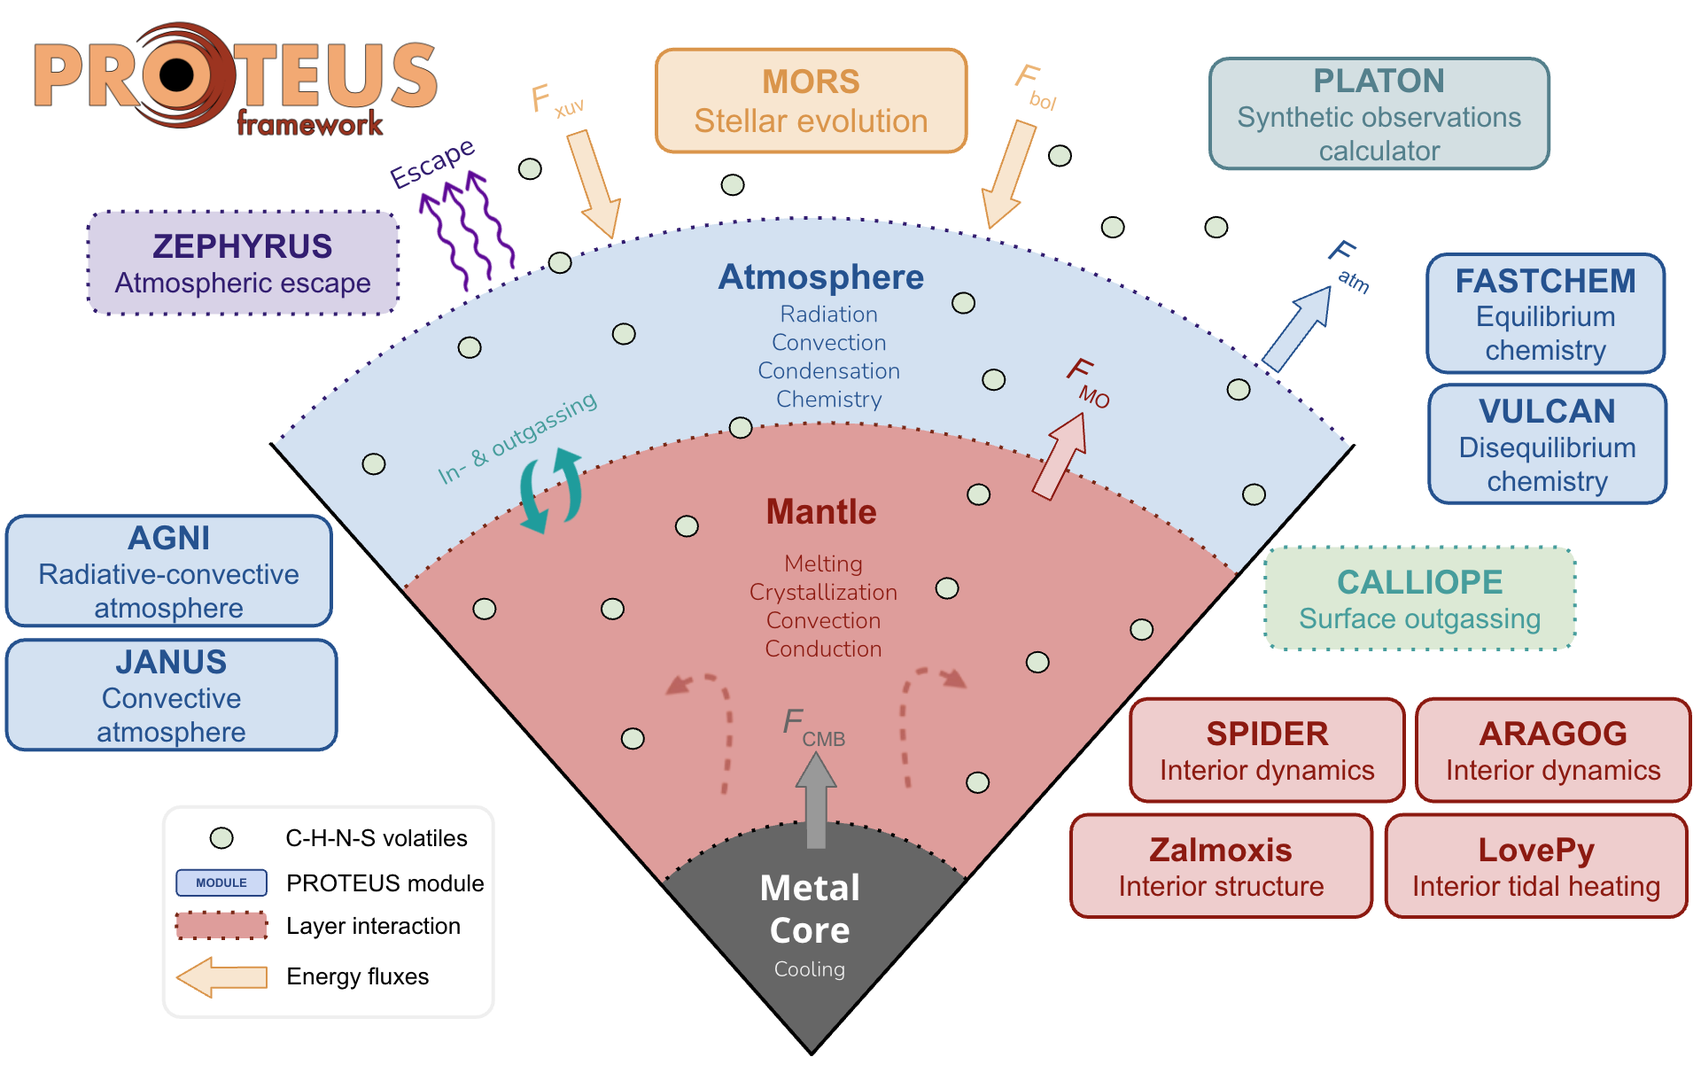
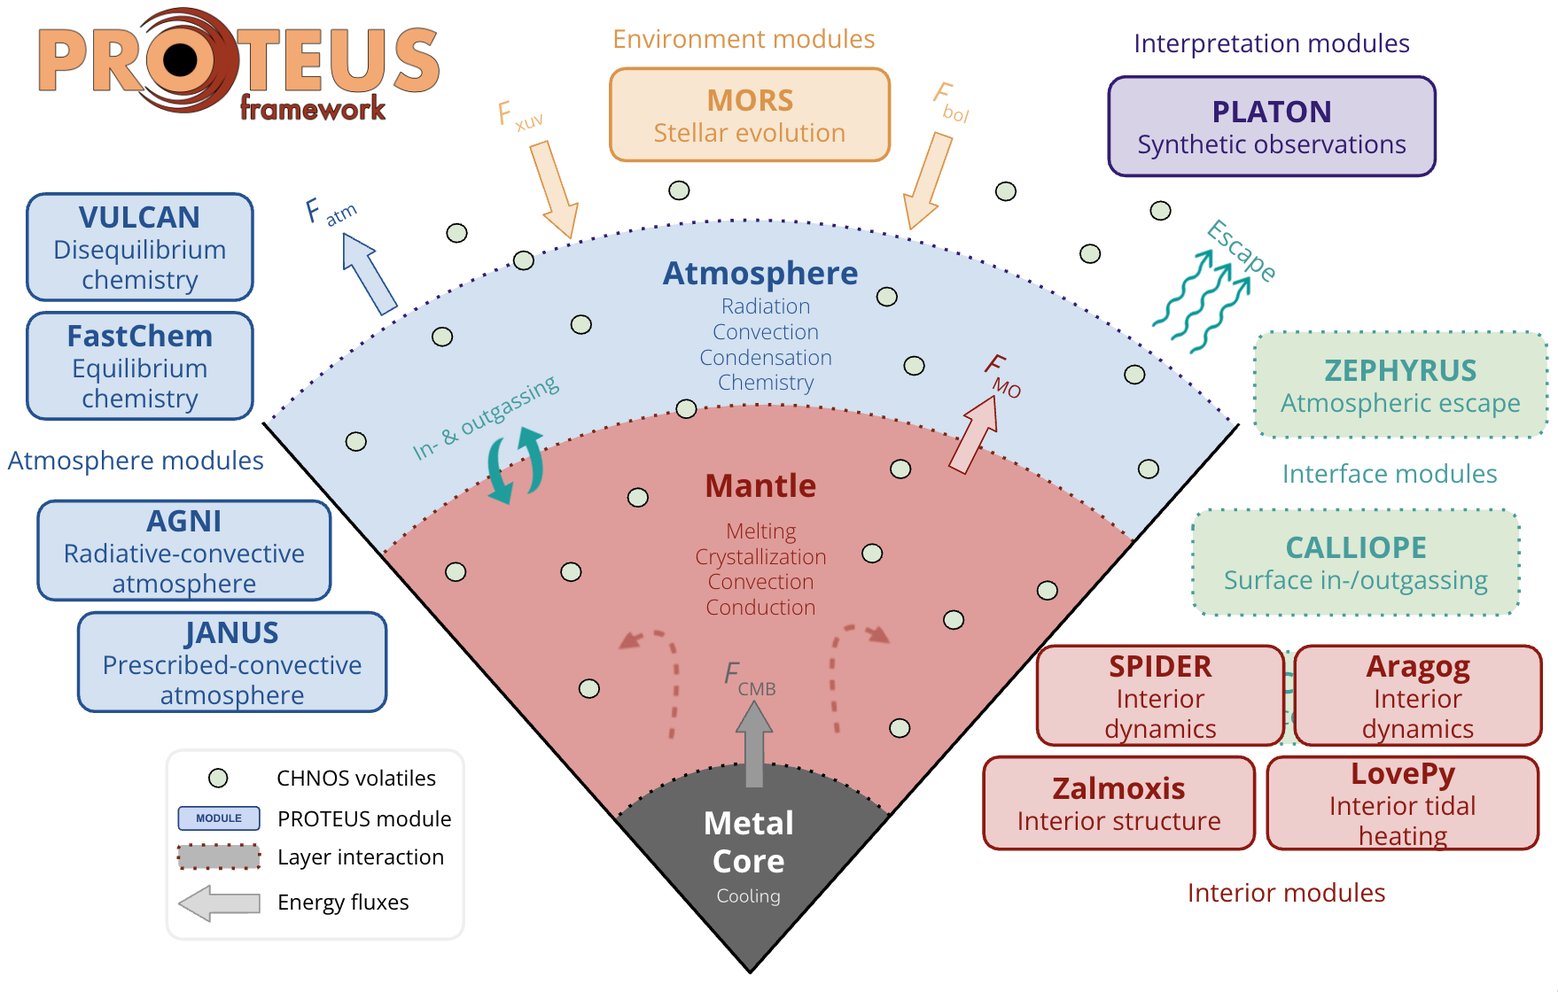
suggestions by harrison, changes to figure

diff --git a/docs/paper/paper.md b/docs/paper/paper.md
@@ -75,13 +75,13 @@ bibliography: paper.bib
 
 # Summary
 
-[PROTEUS](https://github.com/FormingWorlds/PROTEUS) is an adaptive and modular numerical framework designed to tackle the interdisciplinary challenge of understanding the coupled evolution of the atmospheres and interiors of rocky planets and exoplanets over geologic timescales. It iteratively couples the numerical solution of interoperable physical and chemical modules, each of which are designed to describe a specific component of the planet and its environment, for example atmospheric radiative transfer, stellar evolution, volatile in- and outgassing, or mantle convection. Through this method PROTEUS resolves evolutionary hysteresis processes on a global, planetary scale that are not accessible through steady-state approaches. Its modularity allows robust physical and numerical tests against known analytical solutions and empirical evidence on the level of both individual processes and the interconnected planet system. The current primary use case of PROTEUS is the simulation of the coupled geophysical and climatic evolution of individual or ensembles of rocky (exo-)planets from their primordial magma ocean phase to either global energy balance, mantle solidification, or complete atmospheric escape. Through its modular implementation, PROTEUS offers multiple avenues to extend its functionality and use-cases in the future, for example toward more volatile-rich planets, solid-state geodynamics, prebiotic and biotic chemistry, and statistical inference methods.
+[PROTEUS](https://github.com/FormingWorlds/PROTEUS) is an adaptive and modular numerical framework designed to tackle the interdisciplinary challenge of understanding the coupled evolution of the atmospheres and interiors of rocky planets and exoplanets over geologic timescales. It iteratively couples the numerical solutions of interoperable physical and chemical modules, each of which are designed to describe a specific component of the planet and its environment, for example atmospheric radiative transfer, stellar evolution, volatile in- and outgassing, or mantle convection. Through this method PROTEUS resolves evolutionary hysteresis processes on a global, planetary scale that are not accessible through steady-state approaches. Its modularity allows robust physical and numerical tests against known semi-analytic solutions and empirical evidence on the level of both individual processes and the interconnected planet system. The current primary use case of PROTEUS is the simulation of the coupled geophysical and climatic evolution of individual or ensembles of rocky (exo-)planets from their primordial magma ocean phase to either global energy balance, mantle solidification, or complete atmospheric escape. Simulation results can be aimed at advancing our theoretical understanding of planetary evolution or for be used for comparison with current and future astronomical observations. Through its modular implementation, PROTEUS offers multiple avenues to extend its functionality and use-cases in the future, for example toward more volatile-rich planets, solid-state geodynamics, prebiotic and biotic chemistry, and statistical inference methods.
 
 # Background
 
-Advances in astronomical instrumentation, such as the launch of the James Webb Space Telescope (JWST), now enable the spectral characterization of low-mass extrasolar planets, in particular so-called super-Earths and sub-Neptunes [@kempton24], which are absent from the Solar System. Many of these exoplanets orbit very close to their star under high irradiation and on eccentric orbits [@zhu21]. These conditions create thermodynamic environments that are potentially similar to the climatic and geodynamic regime of the primitive Earth right after its formation, enabling direct observational access to highly energetic phases of planetary evolution, for instance magma ocean stages and runaway greenhouse states. These extreme geodynamic and climatic regimes governed the early, formative phases of the terrestrial planets, but are inaccessible at present day in the Solar System [@lichtenberg23].
+Advances in astronomical instrumentation, such as the launch of the James Webb Space Telescope (JWST), now enable the spectral characterization of low-mass extrasolar planets, in particular so-called super-Earths and sub-Neptunes [@kempton24], which have no Solar System analogues. Many of these exoplanets orbit very close to their star under high irradiation and on eccentric orbits [@zhu21]. These conditions create thermodynamic environments that are potentially similar to the climatic and geodynamic regime of the primitive Earth right after its formation, enabling direct observational access to highly energetic phases of planetary evolution, for instance magma ocean stages and runaway greenhouse states. These extreme geodynamic and climatic regimes governed the early, formative phases of the terrestrial planets, but are inaccessible at present day in the Solar System [@lichtenberg23].
 
-Characterizing the thermodynamic and climatic properties of these exoplanets in fully or partially molten regimes will thus yield critical insights to better understand the planetary conditions that governed the formation of the earliest atmospheres of the terrestrial planets and built the background environment of the origin of life as we know it [@lichtenberg25]. Resolving the physical origin of the diversity in the observed exoplanet population is key to building a background understanding of the abiotic landscape of terrestrial worlds. Only through such enhanced understanding of the planetary context can we built the quantitative understanding through which exoplanet astronomy will enable the identification of life as we know it on other worlds.
+Characterizing the thermodynamic and climatic properties of these exoplanets in fully or partially molten regimes will thus yield critical insights to better understand the planetary conditions that governed the formation of the earliest atmospheres of the terrestrial planets and built the background environment of the origin of life as we know it [@lichtenberg25]. Resolving the physical origin of the diversity in the observed exoplanet population is key to building a background understanding of the abiotic landscape of terrestrial worlds. Key insights require contextual insight into both individual planets and population-level trends, such as the radius valley or prevalence of secondary atmospheres on low-mass exoplanets. Only through such enhanced understanding of the planetary context can we built the quantitative understanding through which exoplanet astronomy will enable the identification of life as we know it on other worlds.
 
 # Statement of need
 
@@ -89,7 +89,7 @@ The atmospheric, surficial, and geologic conditions during magma ocean epochs ar
 
 This emergent property of coupled interior-atmosphere systems is illustrated by the discussion surrounding the 'runaway greenhouse' climate state for Earth and Venus, and for extrasolar planets. If low-mass planets are modelled in a steady-state with a pre-exisiting water ocean and freely chosen atmospheric compositions [@yang13; @way16; @selsis23; @madhusudhan23], it is found that such planets can retain their water inventory and remain 'habitable' on geologic timescales. However, if modelled as starting in a hot magma ocean state, as predicted by planetary formation scenarios and supported by empirical evidence from the Solar System, these solutions are not recovered [@hamano13; @schaefer16; @kite20a; @kite20b; @lichtenberg21a; @dorn21; @shorttle24; @nicholls25c; @boer25]; instead long-lived magma oceans are found to be defining features of planetary evolution, in particular under the extreme stellar irradiation of the currently known exoplanet population [@lichtenberg25].
 
-One key reason for this model divergence is the emerging feedback loop between molten mantle and atmosphere: atmospheric volatiles, including H$_2$O and N and S species, are highly soluble in magmatic fluids [@suer23; @sossi23; @schaefer16], hence the rocky, molten mantle acts as a significant sink of atmospheric volatiles, which selectively draws volatiles out of the atmosphere into the mantle [@dorn21; @shorttle24; @nicholls25c]. This changes the energy transfer through the atmosphere by affecting its pressure, opacity, and reflection properties, in turn changing the heat loss or gain of the planet through secular cooling and stellar irradiation. Time-sensitive effects, such as continuing accretion [@itcovitz22; @lichtenberg22; @wogan24b], internal redox processes [@wordsworth18; @kite20b; @lichtenberg21b @schaefer24], photoevaporation [@rogers21; @cherubim25] induced by the host star, or mantle crystallisation (Maurice, Lichtenberg), will affect the global planetary equilibrium over time.
+One key reason for this model divergence is the emerging feedback loop between molten mantle and atmosphere: atmospheric volatiles, including H$_2$O and N and S species, are highly soluble in magmatic fluids [@suer23; @sossi23; @schaefer16], hence the rocky, molten mantle acts as a significant sink of atmospheric volatiles, which selectively draws volatiles out of the atmosphere into the mantle [@dorn21; @shorttle24; @nicholls25c]. This changes the energy transfer through the atmosphere by affecting its pressure, opacity, and scattering properties, in turn changing the heat loss or gain of the planet through secular cooling and stellar irradiation. Time-sensitive effects, such as continuing accretion [@itcovitz22; @lichtenberg22; @wogan24b], internal redox processes [@wordsworth18; @kite20b; @lichtenberg21b @schaefer24], photoevaporation [@rogers21; @cherubim25] induced by the host star, or mantle crystallisation [@schaefer_magma_2018], will affect the global planetary equilibrium over time.
 
 Planets with similar atmospheric properties may thus harbour order of magnitude different bulk volatile fractions if their interior (core and mantle) phase state is different. This presents a critical degeneracy for astronomical observations aiming to infer compositional and thermodynamic properties of exoplanets from telescopic data. On the other hand, evolutionary hysteresis processes may contribute to resolving observational degeneracies: the magma solubilities of C, N and S species are highly sensitive to the compositional properties of the planetary mantle [@suer23; @lichtenberg21a; @shorttle24; @nicholls25a], hence planets with different geochemistries may be distinguished by matching astronomical observations with time-resolved solutions that connect geochemical with atmospheric considerations over geological timescales. Providing these geophysical and climatic predictions and enable quantative comparison with empirical data from exoplanet astronomy is the primary purpose of the PROTEUS framework in its present form.
 
@@ -101,7 +101,7 @@ The PROTEUS framework attempts to tackle these challenges by modularising its so
 
  - Modules can be updated and maintained independently. Each module is self-sufficient and can be executed standalone, which enhances developer experience and usability.
  - Modules can be combined in different ways to create different approaches, which enables the framework to be adapted to a wide range of research questions.
- - Modules can be exchanged through other modules to test the sensitivity of different approaches to the same problem, which enables a more robust understanding of the underlying physics and chemistry.
+ - Modules can be exchanged with other modules to test the sensitivity of different approaches to the same problem, which enables a more robust understanding of the underlying physics and chemistry.
 
 PROTEUS is thus in principle interoperable with a variety of external computer codes that fit into the framework designation. In some instances, this enables integration and extension of pre-existing codes, preventing researchers from continuously 'reinventing the wheel' of their scientific domain.
 
@@ -109,44 +109,47 @@ PROTEUS is thus in principle interoperable with a variety of external computer c
 
 \autoref{fig:schematic} shows the current state of the PROTEUS framework at the time of submission, including its ecosystem of modules, as previously introduced in @lichtenberg21a; @nicholls24; @nicholls25a; @nicholls25c. Several of the currently existing modules (in addition to the PROTEUS framework itself) have been written from scratch for their primary use as module within PROTEUS. Other modules are specialised codes, which were originally developed stand-alone, and have been adapted and extended to work with the PROTEUS framework.
 
-Modules are grouped into four main categories: (i) interior, (ii) atmosphere, (iii) environment, (iv) interpretation.
+Modules are grouped into four main categories: (i) interior, (ii) atmosphere, (iii) interface, (iv) environment, and (v) interpretation.
 
-Interior modules (i) compute the thermal and chemical evolution of the planetary mantle and core, such as mantle energy transport process, melting and crystallization, and in- and outgassing of volatiles. These include:
+Interior modules (i) compute the thermal and chemical evolution of the planetary mantle and core, such as mantle energy transport process, melting and crystallization (red boxes in \autoref{fig:schematic}). These include:
 
   - Aragog and SPIDER [@bower18; @sastre25], which describe the interior heat transport of partially molten planets using an entropy and a temperature formalism, respectively.
-  - CALLIOPE [@bower22; @shorttle24; @nicholls25a], which describes the escape of the atmosphere to space.
-  - LovePy [@hay19; @nicholls25c], which describes solid-phase tidal heating in the planetary mantle.
-  - Zalmoxis [@pascal26], which describes the interior (core and mantle) structure and gravity profile.
+  - LovePy [@hay19; @nicholls25c], which simulate mixed-phase tidal heating in the planetary mantle.
+  - Zalmoxis [@pascal26], which calculates the interior (core and mantle) structure and gravity profile.
 
-Atmosphere modules (ii) compute the energy balance of the planetary atmosphere, including radiative transfer, atmospheric chemistry, and escape processes. These include:
+Atmosphere modules (ii) compute the energy balance and composition of the planetary atmosphere, including radiative transfer, and atmospheric chemistry processes  (blue boxes in \autoref{fig:schematic}). These include:
 
   - AGNI [@nicholls25a; @nicholls25b], which describes the atmosphere energy balance using a radiative-convective model and surface reflection properties from laboratory data [@hammond25].
-  - JANUS [@graham21; @graham22], which describes the atmosphere energy balance using a multicomponent non‐dilute pseudoadiabat.
-  - ZEPHYRUS [@postolec25], which describes the escape of the atmosphere to space.
-  - FASTCHEM [@kitzmann24], which describes equilibrium atmospheric chemistry.
-  - VULCAN [@tsai17; @tsai21], which describes disequilibrium atmospheric chemistry.
-  - SOCRATES [@manners24-tech], which describes radiative fluxes from atmospheric temperature and composition.
+  - JANUS [@graham21; @graham22], which treats the atmosphere energy balance using a multicomponent non‐dilute pseudoadiabat.
+  - FASTCHEM [@kitzmann24], which models equilibrium atmospheric chemistry.
+  - VULCAN [@tsai17; @tsai21], which simulates disequilibrium atmospheric chemistry.
+  - SOCRATES [@manners24-tech], which calculates radiative fluxes from atmospheric temperature and composition.
 
-Environment modules (iii) compute the evolution of the host star, including its luminosity and spectral energy distribution:
+Interface modules (iii) compute the energy balance and composition of the planetary atmosphere, including radiative transfer, and atmospheric chemistry processes (green boxes in \autoref{fig:schematic}). These include:
 
- - MORS [@johstone21], which describes the evolution of rotation and high energy emission of stars.
+  - CALLIOPE [@bower22; @shorttle24; @nicholls25a], which simulates the redox-, temperature-, and pressure-controlled in- and outgassing of C-H-N-O-S volatile elements.
+  - ZEPHYRUS [@postolec25], which calculates the escape of the atmosphere to space.
 
-Interpretation modules (iv) compute observational properties of the planet, such as emission and transmission spectra, planet-to-star contrast ratio, and bulk density:
+Environment modules (iv) compute the evolution of the host star, including its luminosity and spectral energy distribution (yellow boxe in \autoref{fig:schematic}):
 
- - PLATON [@zhang19; @zhang20], which describes synthetic telescopic observations of exoplanets.
+ - MORS [@johstone21], which models the evolution of rotation and high energy emission of stars.
 
-All module repositories are linked to the [PROTEUS framework repository](https://github.com/FormingWorlds/PROTEUS), which provides a single entry point for users to access the entire PROTEUS ecosystem.
+Interpretation modules (v) compute observational properties of the planet, such as emission and transmission spectra, planet-to-star contrast ratio, and bulk density (purple boxes in \autoref{fig:schematic}):
+
+ - PLATON [@zhang19; @zhang20], which simulates synthetic telescopic observations of exoplanets.
+
+While module categories (iv) and (v) so far only contain one module, we anticipate extending these categories in the future with capabilities related to orbital dynamics, accretion, and telescope simulators.All module repositories are linked to the [PROTEUS framework repository](https://github.com/FormingWorlds/PROTEUS), which provides a single entry point for users to access the entire PROTEUS ecosystem.
 
 # Discussion of similar codes
 
-With the advent of increasing precision in exoplanet characterization, and the focus on smaller planets that approach Earth-like radii and densities, the development of coupled atmosphere-interior codes has recently increased the number of research groups working in this direction. Hence, our discussion here focusses specifically on the key traits of (a) time evolution of the planet, (b) coupling between the interior (i.e., a change in one system must dynamically affect other system properties), and (c) the planetary mantle and atmosphere must be described in some fashion that enables quantification of mantle crystallization timescales and changes in atmospheric pressure and/or composition. With this definition, a growing number of codes, mostly proprietary, have been developed over the past few years [@schaefer16; @hamano13; @bower22; @lichtenberg21a; @krissansentotton21; @tang24; @cherubim25; @kite20a; @maurice24; @lebrun13; @salvador17; @carone25; @farhat25; @sahu25]. The majority of these codes built on the principles developed by @elkinstanton08, but each have their own unique implementations and methodologies.
+With the advent of increasing observational precision in exoplanet characterization, and the focus on smaller planets that approach Earth-like radii and densities, the development of coupled atmosphere-interior codes has recently increased the number of research groups working in this direction. Hence, our discussion here focusses specifically on the key traits of (a) time evolution of the planet, (b) coupling between the interior and atmosphere (i.e., a change in one system must dynamically affect other system properties), and (c) the planetary mantle and atmosphere must be described in some fashion that enables quantification of mantle crystallization timescales and changes in atmospheric pressure and/or composition. With this definition, a growing number of codes, mostly proprietary, have been developed over the past few years [@schaefer16; @hamano13; @bower22; @lichtenberg21a; @krissansentotton21; @tang24; @cherubim25; @barnes20; @kite20a; @maurice24; @lebrun13; @salvador17; @carone25; @farhat25; @sahu25]. The majority of these codes built on the principles developed by @elkinstanton08, but each have their own unique implementations and methodologies.
 
 It is critically important for the exploration of the exoplanet census and refined understanding of the deep history of the terrestrial planets that a variety of independent models are developed, optimally in an open source fashion, so that individual approaches can be compared against one another, and the community can learn from each other and thus produce better and more robust science. A detailed comparison with these codes would go beyond the scope of this article. Hence, we here limit our discussion to the traits that we believe are the unique capabilities and implementation aspects of PROTEUS. These are:
 
   - Its modularised approach, with the advantages described above.
-  - The ability to spatially resolve the planet (so far in 1-D) from the core-mantle boundary to the top of the atmosphere. Critically, this enables the quantification of thermal evolution scenarios that crystallize inhomogeneously, and not solely from the bottom-up, as is a common assumption in most other codes that make use of boundary layer theory for their interior description.
-  - The wide variety of geochemistries that can be modelled, which are expressed through the redox state at the mantle-atmosphere interface and result in order-of-magnitude varying atmospheric compositions, which are chemically and energetically self-consistently resolved in the atmospheric modules.
-  - The dynamic resolution of interior and atmospheric energy transfers regimes: radiative and convective layers in the atmosphere; two-phase energy and compositional transfer in conductive and (turbulent) convective regimes of the interior are resolved.
+  - The ability to spatially model the planet (so far in 1-D) from the core-mantle boundary to the top of the atmosphere. Critically, this enables the quantification of thermal evolution scenarios that crystallize inhomogeneously, and not solely from the bottom-up, as is a common assumption in most other codes that make use of boundary layer theory for their interior description.
+  - The wide variety of geochemistries that can be modelled, which are expressed through the redox state at the mantle-atmosphere interface and planetary volatile content, and result in order-of-magnitude varying atmospheric compositions, which are chemically and energetically self-consistently resolved in the atmospheric modules.
+  - The dynamic resolution of interior and atmospheric energy transfers regimes: radiative and convective layers in the atmosphere; two-phase energy and compositional transfer in conductive and (turbulent) convective regimes of the mantle are resolved.
   - True multi-phase evolution of the mantle, where melt and solid phases are resolved on individual nodes, affecting energy transfer and chemical properties.
   - Interconnected atmospheric escape that couples to the planetary interior; i.e., the escaping reservoir is dynamically linked and/or disconnected from the volatile reservoir in the deep interior, depending on evolutionary state and redox properties.
   - Time-resolved evolution of the stellar spectrum and energy flux for a wide array of stellar types directly imprint on atmospheric energy transfer and escape.
@@ -154,7 +157,7 @@ It is critically important for the exploration of the exoplanet census and refin
   - The inclusion of realistic, measured surface reflection properties for solid and molten surface conditions.
   - On-the-fly computation of observational properties, such as emission and transmission spectrum, planet-to-star contrast ratio, bulk density, and other observational properties of interest.
   - Automated testing of individual modules and the PROTEUS framework as a whole using the GitHub continuous integration platform.
-  - A usable and growing documentation and tutorials.
+  - A usable and growing set of documentation and tutorials.
 
 # Verification & documentation
 
